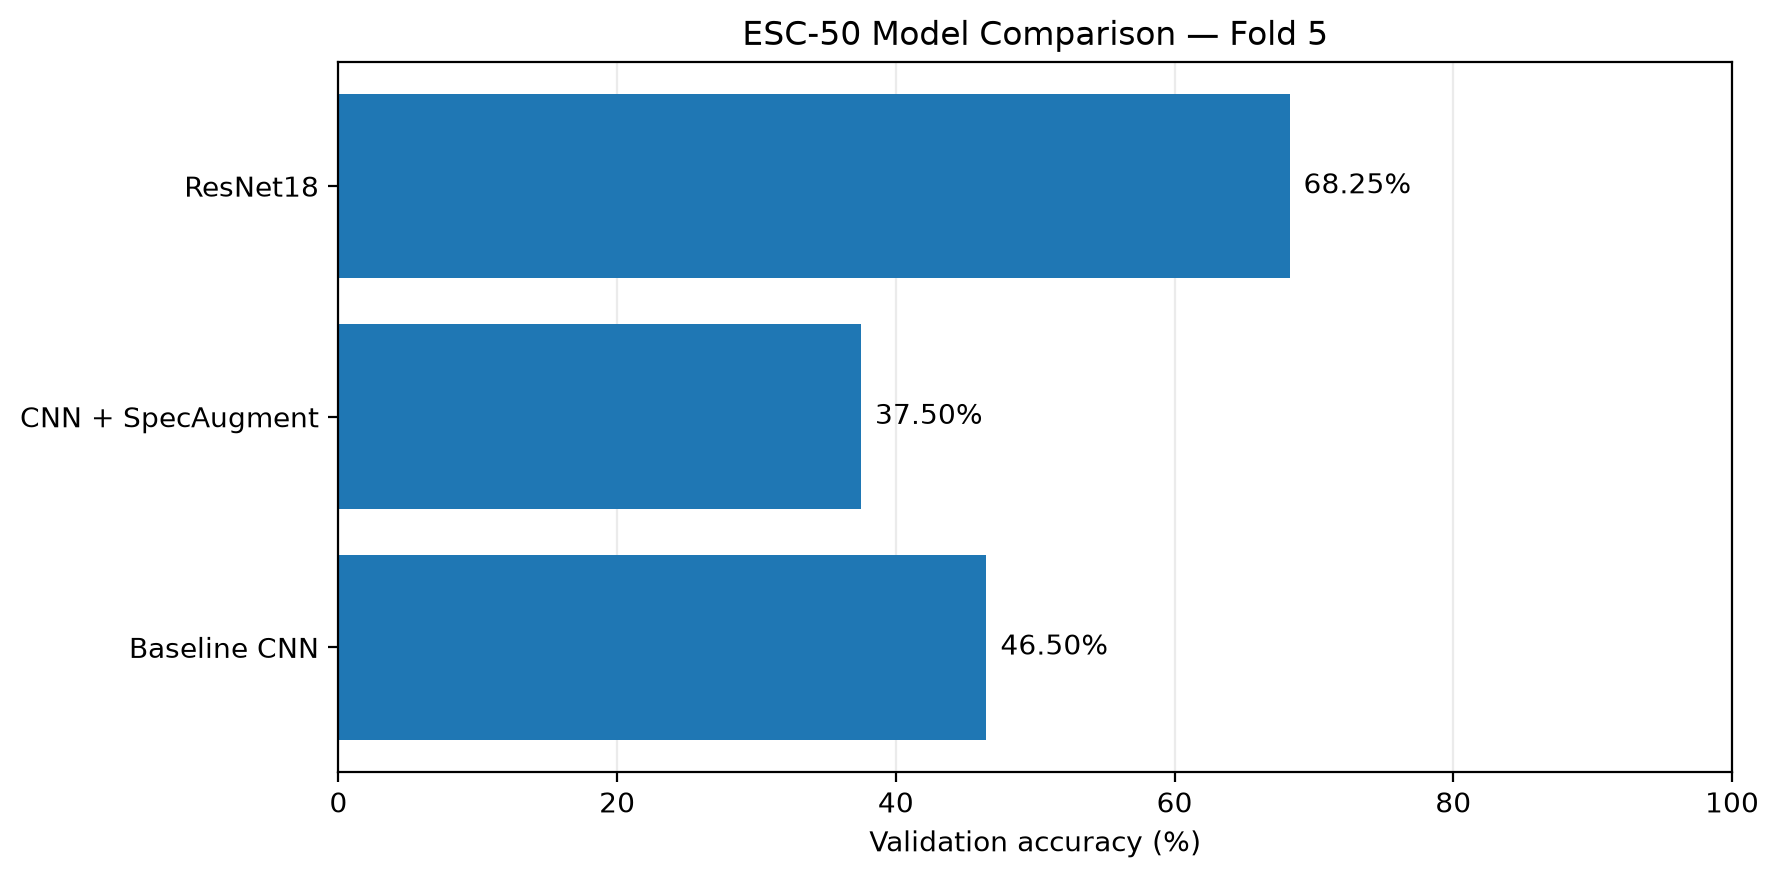
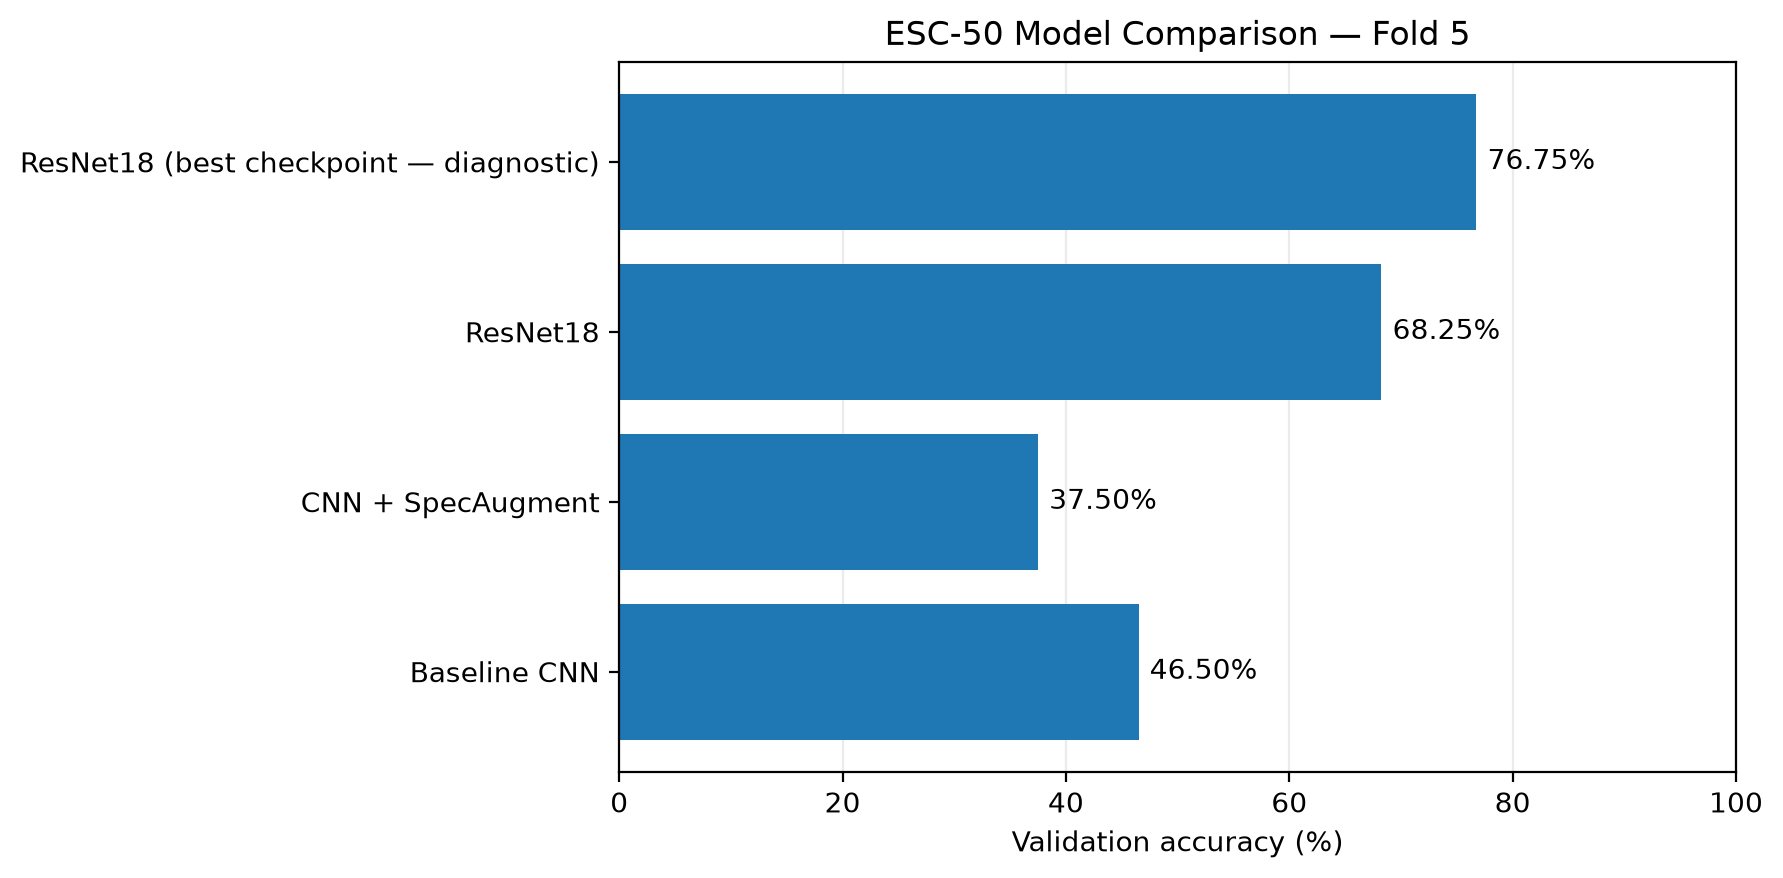
Document WILDLIGHT fold-5 experiment results

diff --git a/compare_models.py b/compare_models.py
@@ -84,6 +84,11 @@ def main():
             "esc50_resnet18_last.pth",
             lambda: build_resnet18(pretrained=False),
         ),
+        (
+            "ResNet18 (best checkpoint — diagnostic)",
+            "esc50_resnet18_best.pth",
+            lambda: build_resnet18(pretrained=False),
+        ),
     ]
 
     print("Validation fold: 5")

diff --git a/RESULTS.md b/RESULTS.md
@@ -1,0 +1,142 @@
+# WILDLIGHT — Environmental Audio Intelligence
+
+## 1. Project Overview
+
+WILDLIGHT is an environmental audio classification research-engineering project investigating how deep learning models recognize environmental sounds.
+
+The system takes a five-second audio recording, converts it into a mel spectrogram, and predicts one of 50 ESC-50 sound categories.
+
+The project investigates three training approaches and evaluates model performance across the official ESC-50 folds.
+
+### Research Questions
+
+1. Can a CNN trained from scratch learn useful environmental sound patterns?
+2. Does SpecAugment improve generalization to unseen audio clips?
+3. Does pretrained ResNet18 perform better than the original CNN?
+4. How consistent is performance across all five official validation folds?
+
+## 2. Dataset and Preprocessing
+
+| Property | Configuration |
+|---|---|
+| Dataset | ESC-50 |
+| Total audio clips | 2,000 |
+| Sound categories | 50 |
+| Duration per clip | 5 seconds |
+| Sample rate | 22,050 Hz |
+| Samples per clip | 110,250 |
+| Mel-frequency bins | 128 |
+| Training folds | 1, 2, 3, 4 |
+| Validation fold | 5 |
+| Training clips | 1,600 |
+| Validation clips | 400 |
+
+### Preprocessing Pipeline
+
+1. Load the audio and resample it to 22,050 Hz.
+2. Fix the waveform length to 110,250 samples.
+3. Generate a 128-bin mel spectrogram.
+4. Convert the spectrogram to decibel values.
+5. Apply the project's existing normalization: `(m + 40) / 40`.
+6. Pass the resulting tensor to the model.
+
+The official ESC-50 fold split is retained to reduce the risk of related recordings appearing in both training and validation data.
+
+## 3. Models and Experiments
+
+### Experiment 1 — Baseline CNN
+
+The baseline CNN is trained from scratch using three convolutional blocks with 32, 64, and 128 feature channels, followed by global average pooling and a 50-class output layer.
+
+The model is trained using AdamW, a learning rate of `0.001`, weight decay of `0.01`, batch size of 32, and 30 epochs.
+
+Checkpoint: `esc50_cnn.pth`
+
+### Experiment 2 — CNN with SpecAugment
+
+The same CNN architecture is trained with frequency masking and time masking applied to the training spectrograms. Validation data remains unaugmented.
+
+The experiment investigates whether spectrogram masking helps the model generalize to unseen audio examples.
+
+Checkpoint: `esc50_cnn_specaugment.pth`
+
+### Experiment 3 — Pretrained ResNet18
+
+ResNet18 uses pretrained weights, a modified first convolution that accepts single-channel mel spectrograms, and a final classification layer with 50 outputs.
+
+The model is fine-tuned on ESC-50 using the same training and validation fold arrangement.
+
+Checkpoints:
+- Final epoch: `esc50_resnet18_last.pth`
+- Best observed fold-5 validation accuracy: `esc50_resnet18_best.pth`
+
+## 4. Fold-5 Model Comparison
+
+All four checkpoints were evaluated using the same 400 clips from official fold 5.
+
+| Model | Checkpoint | Correct Predictions | Accuracy |
+|---|---|---:|---:|
+| Baseline CNN | `esc50_cnn.pth` | 186 / 400 | 46.50% |
+| CNN + SpecAugment | `esc50_cnn_specaugment.pth` | 150 / 400 | 37.50% |
+| ResNet18 — final checkpoint | `esc50_resnet18_last.pth` | 273 / 400 | 68.25% |
+| ResNet18 — best checkpoint (diagnostic) | `esc50_resnet18_best.pth` | 307 / 400 | 76.75% |
+
+Visualization: `model_comparison_fold5.png`
+
+### Interpretation
+
+The final ResNet18 checkpoint achieved 68.25% accuracy on fold 5, compared with 46.50% for the baseline CNN. This is an improvement of 21.75 percentage points on this validation fold.
+
+The SpecAugment final checkpoint achieved 37.50%, which was lower than the baseline CNN's final-checkpoint accuracy in this run.
+
+The best ResNet18 checkpoint achieved 76.75% on fold 5. This checkpoint was selected based on its performance on that same validation fold. Consequently, its measured fold-5 accuracy may be optimistically biased and should be treated as a diagnostic result rather than the primary comparison.
+
+The final-checkpoint comparison remains the primary fold-5 comparison. These results alone do not establish which approach will perform most consistently across all five folds.
+
+## 5. SpecAugment Training Observations
+
+- Best observed fold-5 validation accuracy: 51.00%.
+- Best observed epoch: epoch 23 in the zero-based training log (the 24th epoch).
+- Final-epoch validation accuracy: 37.50%.
+- Saved checkpoint: `esc50_cnn_specaugment.pth`.
+
+The saved SpecAugment checkpoint contains the weights from the final epoch, not the epoch with the best observed validation accuracy. The difference highlights why both the training trajectory and the saved checkpoint need to be considered when interpreting results.
+
+## 6. Current Project Status
+
+### Completed
+
+- ESC-50 dataset setup.
+- Dataset class and mel-spectrogram preprocessing.
+- Baseline CNN implementation, training, and evaluation.
+- SpecAugment training experiment.
+- Pretrained ResNet18 implementation and training.
+- Fold-5 checkpoint comparison.
+- Model comparison visualization.
+
+### Remaining Work
+
+1. Complete five-fold cross-validation using the official ESC-50 folds.
+2. Record the validation accuracy for each fold.
+3. Calculate the mean and standard deviation of the five final-fold accuracies.
+4. Assess performance consistency across folds.
+5. Implement prediction on external audio using the same preprocessing function used by the dataset.
+6. Add the planned Gradio audio-upload interface.
+
+## 7. Evaluation Protocol and Limitations
+
+Fold-5 accuracy is a single-split measurement and may depend on the particular validation fold.
+
+The best ResNet18 checkpoint was selected using fold-5 validation performance, so its fold-5 result is not an independent estimate of generalization.
+
+Five-fold cross-validation remains necessary to investigate how consistently the ResNet18 approach performs across the predefined folds.
+
+The project will retain the existing dataset, core preprocessing, model comparison sequence, and research questions. Further conclusions will be based on recorded experimental results rather than assumed improvements.
+
+## 8. Reproducibility
+
+The project uses Python, PyTorch, TorchVision, Torchaudio, Librosa, NumPy, Pandas, Matplotlib, and scikit-learn for data loading, modelling, training, and evaluation.
+
+The repository contains the training and evaluation scripts. Model checkpoints may be regenerated by running the corresponding training scripts with the ESC-50 dataset available in the expected folder structure.
+
+The next milestone is five-fold cross-validation, followed by prediction on external audio using the shared preprocessing pipeline.
